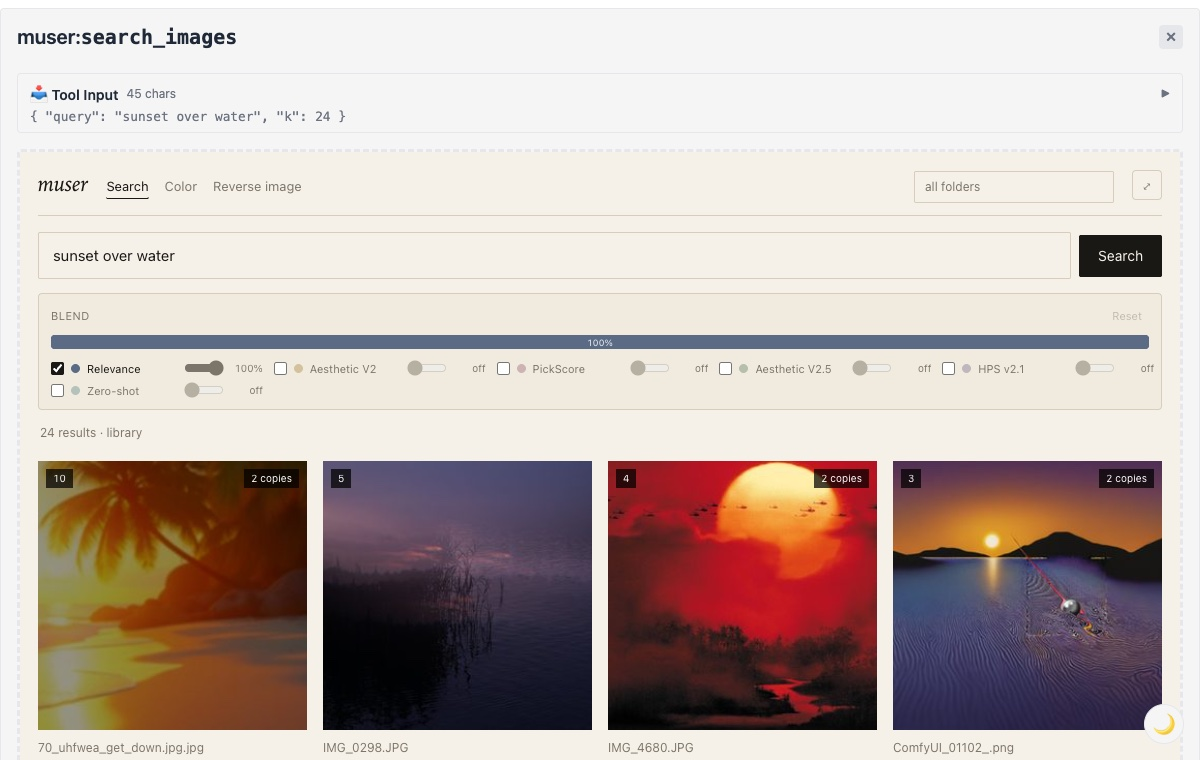
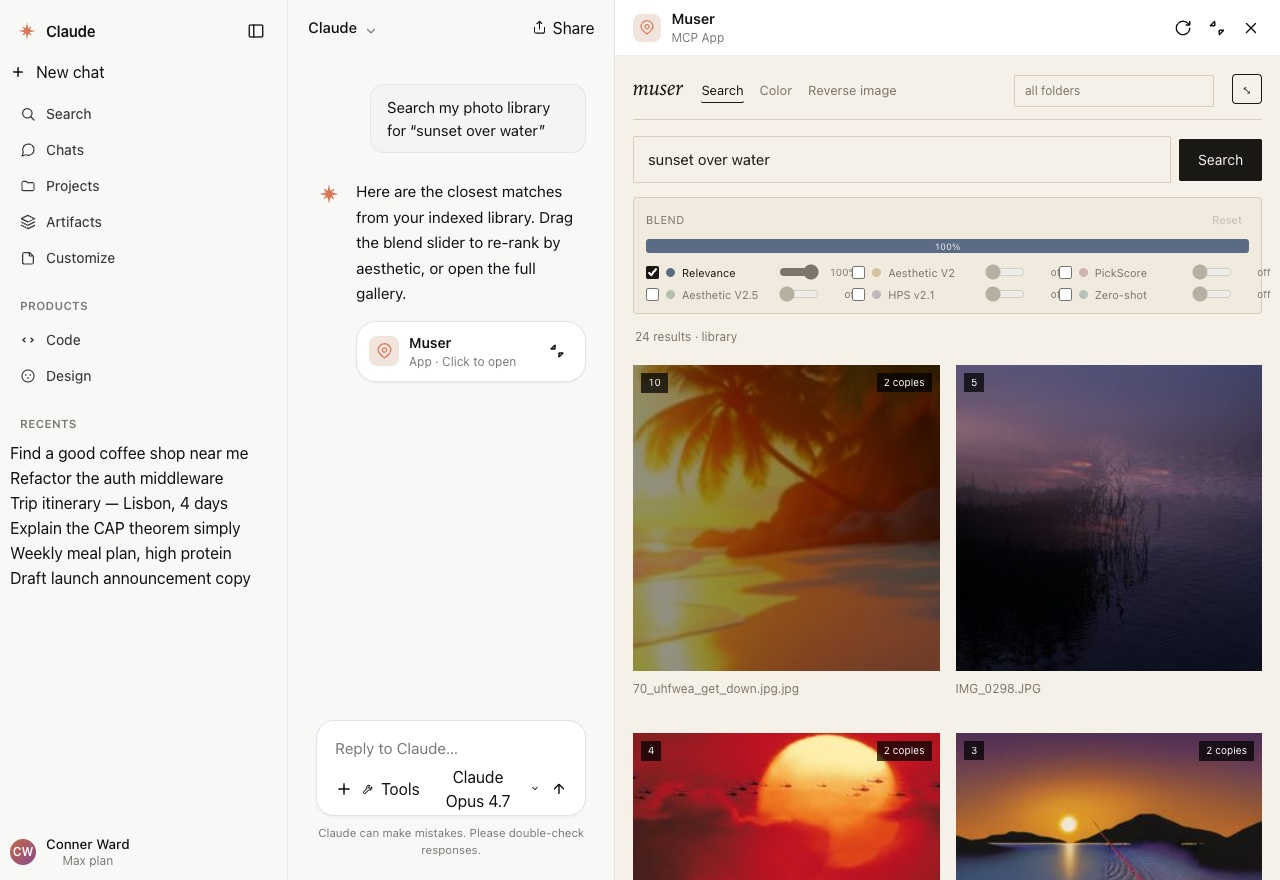
README: show search_images MCP App open in a Claude-style desktop window

diff --git a/README.md b/README.md
@@ -140,12 +140,13 @@ no path or runtime prefix is needed:
 { "mcpServers": { "muser": { "command": "muser-mcp" } } }
 ```
 
-`search_images` renders the interactive gallery as an _MCP App_ inside the host (sort
-slider, dedup badges, scope, reverse-image) — below, the gallery served to a real MCP
-host via the [`@modelcontextprotocol/ext-apps`](https://github.com/modelcontextprotocol/ext-apps)
-basic-host (the same component Claude Desktop renders):
+`search_images` renders the interactive gallery as an _MCP App_ — the host opens it
+inline in the chat and in a side panel (blend/sort slider, dedup badges, folder scope,
+reverse-image). Below, the gallery open in Claude's side panel:
 
-![Muser search_images gallery rendered as an MCP App in a host](docs/screenshots/mcp-gallery.jpg)
+![Muser's search_images gallery open as an MCP App in Claude's side panel](docs/screenshots/mcp-gallery.jpg)
+
+<sub>Rendered via the [`@modelcontextprotocol/ext-apps`](https://github.com/modelcontextprotocol/ext-apps) host bridge in a Claude-style preview shell — the same MCP App component Claude Desktop loads.</sub>
 
 | Tool            | Purpose                                                        |
 | --------------- | -------------------------------------------------------------- |
